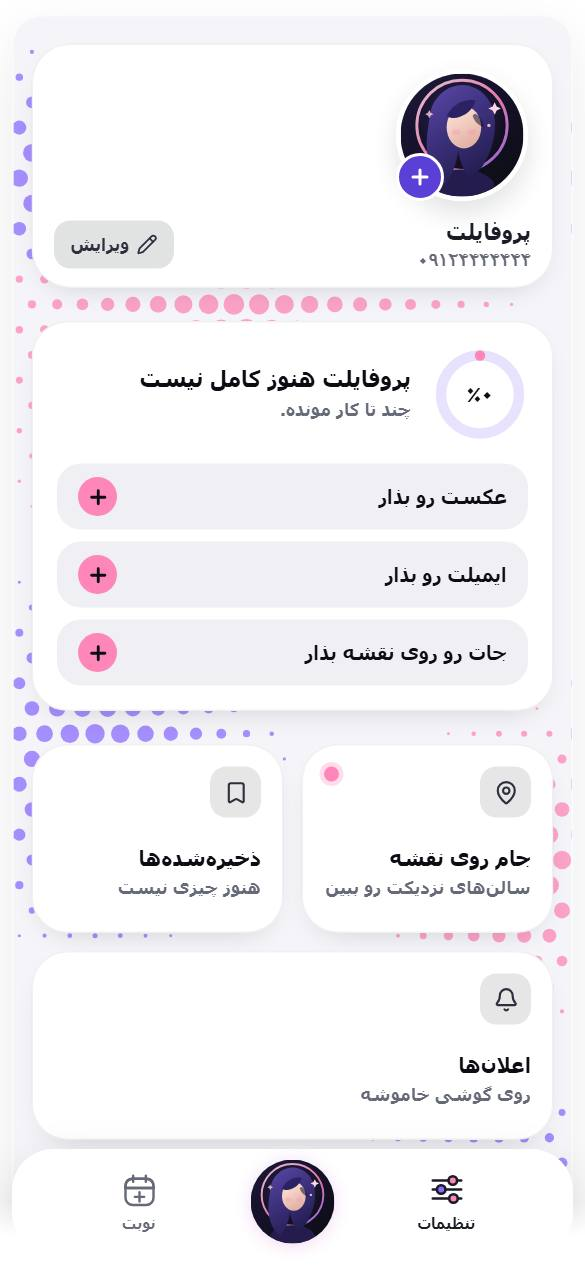
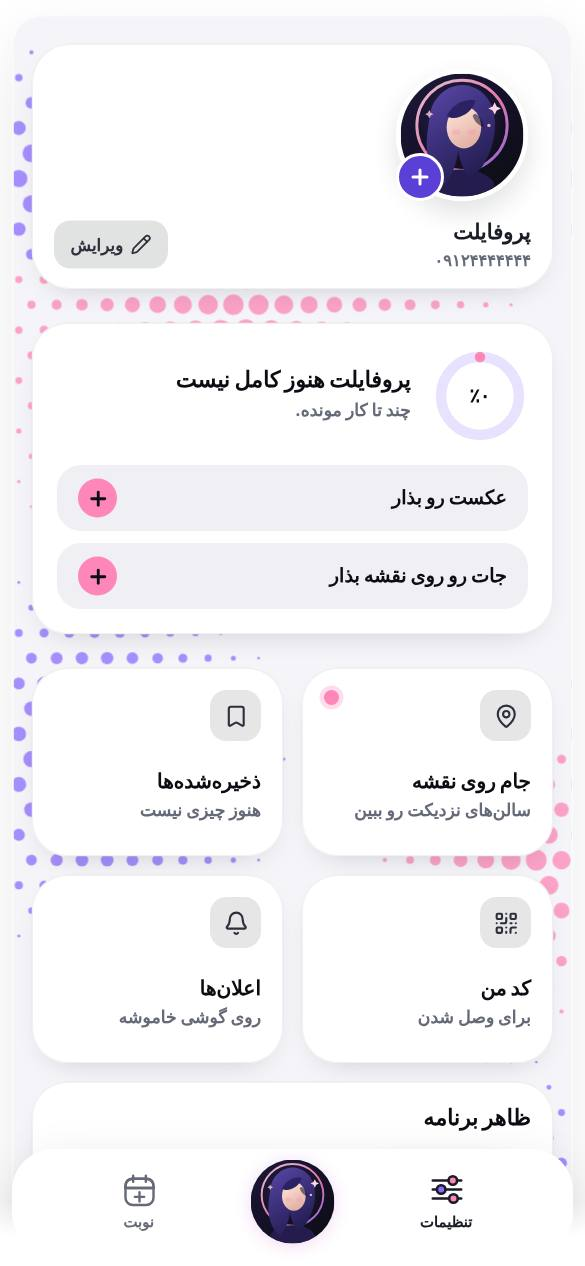
Client home and Settings: bell and support in opposite corners, no email ask, even tiles
- Client home: support button moves to the banner's right corner, the bell
  stays left, so their notification dots no longer overlap.
- Clients are no longer asked for an email: removed from «کارهای مونده» and
  from the client's edit sheet; a stored email is kept (the editor only sends
  email when the form has the field).
- New «کد من» tile for clients (same QR sheet as the bookings tab) so the
  tiles pair up and «اعلانها» keeps the size of the others; a lone tile
  before the wide appearance tile no longer stretches.
- Screenshots retaken, test updated, decision recorded.

Claude-Session: https://claude.ai/code/session_01VwnzUonkWRquHrKnVJuDFU

diff --git a/app/features/shell/ProfileEditModal.jsx b/app/features/shell/ProfileEditModal.jsx
@@ -35,6 +35,7 @@ export function ProfileEditModal({
   if (!open || !profile) return null;
 
   const isSalon = profile.type === "salon";
+  const isClient = profile.type !== "salon" && profile.type !== "artist";
   // Field of activity exists for artists and salons only; clients have none.
   const hasActivityField = profile.type === "artist" || isSalon;
   const avatarSrc = avatarDraft || profile.data?.avatar || defaultAvatarFor(profile.type);
@@ -109,17 +110,20 @@ export function ProfileEditModal({
           <section className="peGroup" aria-labelledby="pe-contact">
             <h4 id="pe-contact">تماس</h4>
             <PhoneChangeBox phone={profile.data?.phone || ""} onChanged={onPhoneChanged} />
-            <label className="peField">
-              <span>ایمیل <em>اگه بخوای؛ برای خبرها و وقتی رمزت یادت رفت</em></span>
-              <input
-                name="email"
-                defaultValue={profile.data?.email || ""}
-                type="email"
-                autoComplete="email"
-                dir="ltr"
-                placeholder="name@example.com"
-              />
-            </label>
+            {/* Clients are never asked for an email (owner, 2026-11-01). */}
+            {isClient ? null : (
+              <label className="peField">
+                <span>ایمیل <em>اگه بخوای؛ برای خبرها و وقتی رمزت یادت رفت</em></span>
+                <input
+                  name="email"
+                  defaultValue={profile.data?.email || ""}
+                  type="email"
+                  autoComplete="email"
+                  dir="ltr"
+                  placeholder="name@example.com"
+                />
+              </label>
+            )}
           </section>
 
           <section className="peGroup" aria-labelledby="pe-security">

diff --git a/app/features/settings/SettingsTiles.jsx b/app/features/settings/SettingsTiles.jsx
@@ -1,9 +1,10 @@
 "use client";
 
-import { Bell, BellRing, CalendarCheck, ChevronLeft, Globe, Link2 } from "lucide-react";
+import { Bell, BellRing, CalendarCheck, ChevronLeft, Globe, Link2, QrCode } from "lucide-react";
 import { useState } from "react";
 import { ProfileSheet } from "../profile/ProfileSheet";
 import { ProfileQrCodeSheet } from "../../components/ProfileQrCodeSheet";
+import { MyCodeSheet } from "../connect/MyCodeSheet";
 import { usePhonePush } from "./usePhonePush";
 import {
   AppearanceSettings,
@@ -144,6 +145,29 @@ export function PageLinkTile({ profile }) {
         <ChevronLeft size={16} className="profileLocationRowChevron" aria-hidden="true" />
       </button>
       <ProfileQrCodeSheet open={open} url={url} name={profile.data?.name || "صفحهم"} onOpenChange={setOpen} />
+    </>
+  );
+}
+
+/**
+ * Client only: «کد من», the same QR as on the bookings tab, so the client's tiles come out even and the
+ * notifications tile keeps the size of the others (owner, 2026-11-01).
+ */
+export function MyCodeTile({ name = "", avatar = "" }) {
+  const [open, setOpen] = useState(false);
+  return (
+    <>
+      <button type="button" className="profileLocationRow" onClick={() => setOpen(true)} aria-haspopup="dialog">
+        <span className="profileLocationRowIcon" aria-hidden="true">
+          <QrCode size={17} />
+        </span>
+        <span className="profileLocationRowInfo">
+          <strong>کد من</strong>
+          <span>برای وصل شدن</span>
+        </span>
+        <ChevronLeft size={16} className="profileLocationRowChevron" aria-hidden="true" />
+      </button>
+      {open ? <MyCodeSheet name={name} avatar={avatar} onClose={() => setOpen(false)} /> : null}
     </>
   );
 }

diff --git a/app/features/settings/SettingsPage.jsx b/app/features/settings/SettingsPage.jsx
@@ -14,7 +14,7 @@ import { SalonRulesSettings } from "../salons/SalonRulesSettings";
 import { SmsPackCard, SubscriptionCard } from "../billing";
 import { ProfileProgress } from "./ProfileProgress";
 import { profileTodos } from "./profileProgress";
-import { AppearanceTile, ArtistBookingTile, NotificationsTile, PageLinkTile, TileSlot, VisibilityTile } from "./SettingsTiles";
+import { AppearanceTile, ArtistBookingTile, MyCodeTile, NotificationsTile, PageLinkTile, TileSlot, VisibilityTile } from "./SettingsTiles";
 
 /**
  * The camera-icon trigger over an existing avatar/poster opens a bottom
@@ -389,6 +389,12 @@ export function SettingsPage({
               </button>
             </div>
           </TileSlot>
+
+          {isClient ? (
+            <TileSlot id="mycode">
+              <MyCodeTile name={profile?.data?.name || ""} avatar={isDefaultAvatar(accountAvatar) ? "" : accountAvatar} />
+            </TileSlot>
+          ) : null}
 
           {isPro ? (
             <TileSlot id="hours" pending={pendingKeys.has("hours")}>

diff --git a/app/styles/features/support.css b/app/styles/features/support.css
@@ -32,7 +32,8 @@
 /* It takes the look of the bell beside it (.profileHeroActions button, .cphBell); only the unread badge is its own. */
 .profileHeroActionsPair { display: flex; align-items: center; gap: 7px; pointer-events: auto; }
 .supportTopBtn { position: relative; cursor: pointer; }
-.profileHero.cphHero .cphBell.cphSupport { left: 62px; }
+/* Client home: the bell stays on the left, support goes to the right corner, so their dots never touch (owner, 2026-11-01). */
+.profileHero.cphHero .cphBell.cphSupport { left: auto; right: 12px; }
 .supportTopBadge { position: absolute; top: -5px; inset-inline-end: -5px; display: grid; place-items: center; min-width: 20px; height: 20px; padding: 0 5px; border-radius: 10px; background: var(--fill-hot); color: var(--n-0); font-style: normal; font-size: 0.68rem; font-weight: 900; box-shadow: 0 0 0 2px var(--n-0); }
 
 /* ---------- Support center (list, conversation, new message) ---------- */

diff --git a/tests/unit/profileProgress.test.js b/tests/unit/profileProgress.test.js
@@ -10,10 +10,10 @@ describe("profile progress", () => {
     expect(p.left.map((t) => t.key)).toEqual(["hours", "instagram"]);
   });
 
-  it("gives a client three, with the photo, email and place", () => {
-    const todos = profileTodos({ type: "client", data: { email: "a@b.com" }, hasDefaultAvatar: true });
-    expect(todos.map((t) => t.key)).toEqual(["avatar", "email", "location"]);
-    expect(progressOf(todos).pct).toBe(33);
+  it("gives a client two, the photo and place, and never asks for an email", () => {
+    const todos = profileTodos({ type: "client", data: { area: "تهران" }, hasDefaultAvatar: true });
+    expect(todos.map((t) => t.key)).toEqual(["avatar", "location"]);
+    expect(progressOf(todos).pct).toBe(50);
   });
 
   it("is 100 when nothing is left", () => {

diff --git a/app/features/shell/useProfileEditor.js b/app/features/shell/useProfileEditor.js
@@ -147,7 +147,8 @@ export function useProfileEditor({
       };
       const body = { type: createdProfile.type, data: {} };
       for (const [key, value] of Object.entries(fields)) {
-        if (value !== "" || key === "email") body.data[key] = value;
+        // Email is sent even when empty (that clears it), but only when the form has the field: clients have none, so a stored one is kept.
+        if (value !== "" || (key === "email" && "email" in data)) body.data[key] = value;
       }
       if (nextAvatar) body.data.avatar = nextAvatar;
       const { ok, payload } = await apiFetch("/api/profile", {

diff --git a/app/features/settings/profileProgress.js b/app/features/settings/profileProgress.js
@@ -9,7 +9,6 @@ export function profileTodos({ type, data = {}, hasDefaultAvatar = true, openDay
   if (!isPro) {
     return [
       { key: "avatar", label: "عکست رو بذار", done: !hasDefaultAvatar, target: "avatar" },
-      { key: "email", label: "ایمیلت رو بذار", done: Boolean(String(data.email || "").trim()), target: "edit" },
       { key: "location", label: "جات رو روی نقشه بذار", done: hasLocation, target: "location" }
     ];
   }

diff --git a/app/styles/features/settings.css b/app/styles/features/settings.css
@@ -904,4 +904,3 @@ button.artistWorkTagTrigger > svg{
 .spTileSlot.is-wide { grid-column: 1 / -1; }
 .spAppearance { display: grid; gap: 12px; padding: 14px; }
 .spAppearance > strong { color: var(--ink); font-size: 0.92rem; font-weight: 900; }
-.spTiles > .spTileSlot:has(+ .is-wide):nth-child(odd) { grid-column: 1 / -1; }

diff --git a/docs/DECISIONS.md b/docs/DECISIONS.md
@@ -148,3 +148,4 @@ One line each, dated. Claude reads this before asking questions.
 - 2026-10-31: Inviting an artist (the salon scans the artist's code): the salon sees its standing join terms and can change days, hours and the percent for this one artist before sending; the invite carries them, the server checks them like any terms change, and when the artist accepts they become the team's first agreed terms. One standing offer for the QR join; later per-artist changes stay by agreement of both sides (owner's answer, 2026-10-31).
 - 2026-11-01 (owner, chosen on a mock-up): «یادآوری وقتش شده» is renamed «یادآوری نوبت بعدی» everywhere (also the client's Settings toggle). On the services page of salons and artists it is one small button beside «خدمت تازه» (it says whether it is on and for how many services) that opens a sheet with the on switch, what the client sees and each service's gap; the old section under the services and the «خدمات من / ۵ خدمت» heading are gone, and each service card shows «هر ۶ هفته یادآوری» while it is on. The salon's «افزودن» is now «خدمت تازه» too.
 - 2026-11-01 (owner: «نسبتاً خوبه»): the customer card is redrawn: one top card with name, number, when they connected, a big pink «نوبت تازه» and call/SMS under it; the four counts in one strip; the other names as chips; bookings split into «نوبتهای پیشرو» and «قبلیها» with the day and time in a box. Nothing about what the card does changed.
+- 2026-11-01 (owner, client home and Settings): on the client's home the bell stays in the left corner of the banner and the support button moves to the right corner, so their dots never touch. Clients are never asked for an email: no «ایمیلت رو بذار» in «کارهای مونده» (client: photo and place only) and no email field in the client's edit sheet (an email already stored is kept, not erased). The client's settings tiles come out even with a new «کد من» tile (the same QR as on the bookings tab, «برای وصل شدن»), so «اعلانها» has the size of the other tiles; a lone tile before the wide «ظاهر برنامه» tile no longer stretches.
